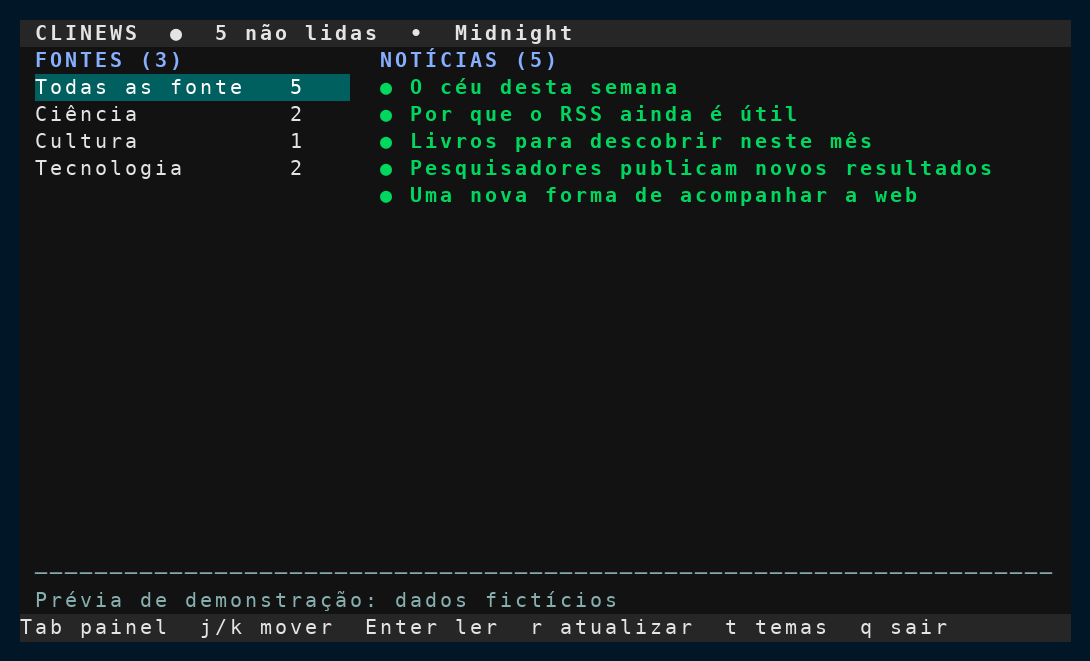
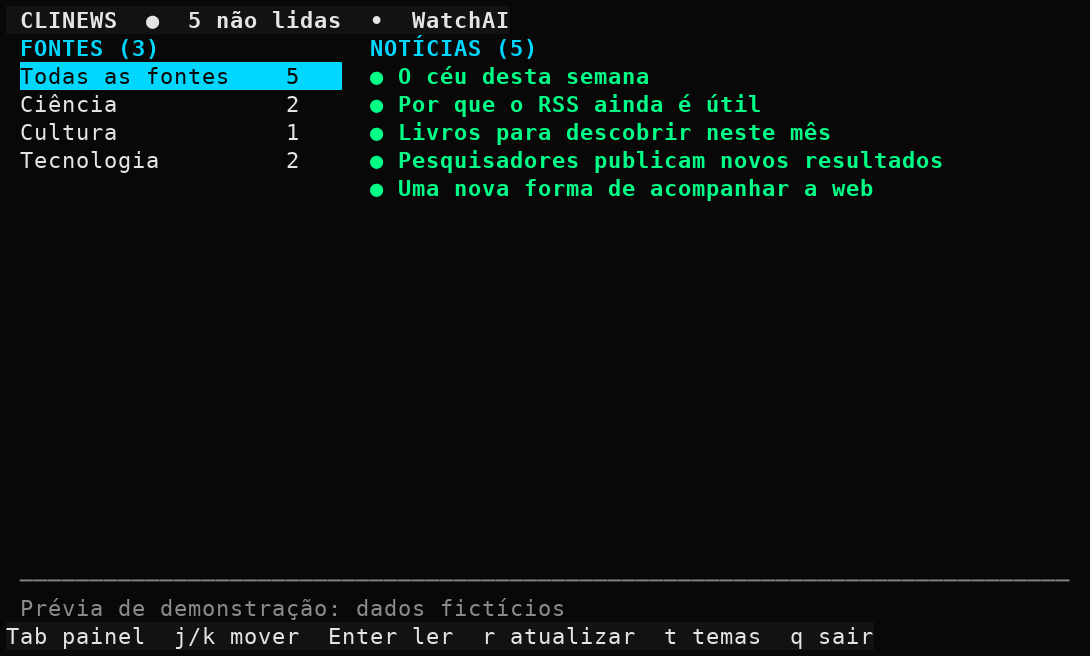
Troca os temas do clinews pelas oito paletas do WatchAI
Os seis temas proprios do clinews - NeoTokio, OldCity, FullDark, SunMode,
Midnight e Zenmode - sairam. Ficaram so as oito paletas do WatchAI, com os
mesmos nomes, na mesma ordem do seletor de la e com os mesmos valores de
cor. O padrao passou de Midnight para WatchAI, que e o padrao do WatchAI.

A correspondencia entre os dois continua a mesma da adicao anterior: as 16
cores de cada paleta do WatchAI viram os dez papeis do clinews, com cyan
no acento e na selecao, green na noticia nao lida e cyan2 no link. O Grey
e a unica excecao: o cyan2 dele (#7A7A7A) fica em 4,49:1 contra o fundo,
entao o link usa o texto secundario da mesma paleta.

XTERM_OVERRIDES perdeu os ajustes de Midnight, NeoTokio e Zenmode. Das
oito paletas que ficaram, so o Grey colide na aproximacao de 256 cores -
fundo e superficie caem no 233, e o cabecalho sumiria.

O teste de paletas virou uma tabela com as cores do WatchAI copiadas a
mao: e ela que falha quando um dos dois aplicativos mexe numa cor sem
mexer no outro.

As capturas da landing page e da Snap Store foram refeitas: o cabecalho
delas dizia "Midnight", um tema que nao existe mais. README, landing page
e a descricao do snap passaram de catorze para oito temas.

Changed region(s): [[0.0, 0.0, 1.0, 1.0]]

diff --git a/docs/index.html b/docs/index.html
@@ -42,7 +42,7 @@
       </div>
       <figure class="hero-screen">
         <a href="assets/tela-noticias.png" target="_blank" rel="noopener" aria-label="Abrir captura da lista de notícias em tamanho completo">
-          <img src="assets/tela-noticias.png" width="1096" height="431" alt="Tela real do clinews no tema Midnight, com fontes à esquerda e notícias não lidas à direita" fetchpriority="high">
+          <img src="assets/tela-noticias.png" width="1100" height="432" alt="Tela real do clinews no tema WatchAI, com fontes à esquerda e notícias não lidas à direita" fetchpriority="high">
         </a>
         <figcaption>Interface real do clinews · modo de demonstração</figcaption>
       </figure>
@@ -64,20 +64,20 @@
           </div>
           <div class="screen-grid">
             <figure class="screen-card" id="panel-noticias">
-              <a href="assets/tela-noticias.png" target="_blank" rel="noopener"><img src="assets/tela-noticias.png" width="1096" height="431" loading="lazy" alt="Lista de fontes à esquerda e matérias não lidas à direita no tema Midnight"></a>
+              <a href="assets/tela-noticias.png" target="_blank" rel="noopener"><img src="assets/tela-noticias.png" width="1100" height="432" loading="lazy" alt="Lista de fontes à esquerda e matérias não lidas à direita no tema WatchAI"></a>
               <figcaption><strong>Acompanhe as novidades</strong><span>Veja todas as matérias ou filtre por fonte. O ponto colorido marca o que ainda não foi lido.</span></figcaption>
             </figure>
             <figure class="screen-card" id="panel-fontes">
-              <a href="assets/tela-fontes.png" target="_blank" rel="noopener"><img src="assets/tela-fontes.png" width="1096" height="431" loading="lazy" alt="Tela de sugestões de fontes com opções em português e inglês"></a>
+              <a href="assets/tela-fontes.png" target="_blank" rel="noopener"><img src="assets/tela-fontes.png" width="1100" height="432" loading="lazy" alt="Tela de sugestões de fontes com opções em português e inglês"></a>
               <figcaption><strong>Escolha suas fontes</strong><span>Marque sugestões ou adicione manualmente o endereço de um site ou feed.</span></figcaption>
             </figure>
             <figure class="screen-card" id="panel-leitura">
-              <a href="assets/tela-leitura.png" target="_blank" rel="noopener"><img src="assets/tela-leitura.png" width="1096" height="431" loading="lazy" alt="Tela de leitura com título, data, resumo e área para o link original"></a>
+              <a href="assets/tela-leitura.png" target="_blank" rel="noopener"><img src="assets/tela-leitura.png" width="1100" height="432" loading="lazy" alt="Tela de leitura com título, data, resumo e área para o link original"></a>
               <figcaption><strong>Leia no terminal</strong><span>Veja o resumo do feed, encontre o link original e traduza textos em inglês quando quiser.</span></figcaption>
             </figure>
             <figure class="screen-card" id="panel-temas">
-              <a href="assets/tela-temas.png" target="_blank" rel="noopener"><img src="assets/tela-temas.png" width="1096" height="431" loading="lazy" alt="Seletor de temas do clinews mostrando as paletas disponíveis"></a>
-              <figcaption><strong>Ajuste as cores</strong><span>Escolha entre catorze temas e veja a prévia antes de salvar.</span></figcaption>
+              <a href="assets/tela-temas.png" target="_blank" rel="noopener"><img src="assets/tela-temas.png" width="1100" height="432" loading="lazy" alt="Seletor de temas do clinews mostrando as oito paletas do WatchAI"></a>
+              <figcaption><strong>Ajuste as cores</strong><span>Escolha entre os oito temas do WatchAI e veja a prévia antes de salvar.</span></figcaption>
             </figure>
           </div>
         </div>
@@ -93,11 +93,11 @@
         </div>
         <div class="features">
           <article class="feature"><div class="feature-icon" aria-hidden="true">⌕</div><h3>Suas fontes, suas regras</h3><p>Adicione qualquer feed RSS ou Atom. Comece pelas sugestões ou cole o endereço de um site.</p></article>
-          <article class="feature"><div class="feature-icon" aria-hidden="true">⌨</div><h3>Feito para o teclado</h3><p>Navegue entre fontes e notícias sem sair do terminal, com atalhos simples e catorze temas.</p></article>
+          <article class="feature"><div class="feature-icon" aria-hidden="true">⌨</div><h3>Feito para o teclado</h3><p>Navegue entre fontes e notícias sem sair do terminal, com atalhos simples e oito temas.</p></article>
           <article class="feature"><div class="feature-icon" aria-hidden="true">文</div><h3>Traduza quando quiser</h3><p>Pressione <code>t</code> ao ler uma notícia em inglês para ver o título e o resumo em português.</p></article>
           <article class="feature"><div class="feature-icon" aria-hidden="true">◷</div><h3>Seu ritmo de leitura</h3><p>Atualize quando quiser e acompanhe o que ainda não leu. Sem sincronização em segundo plano.</p></article>
           <article class="feature"><div class="feature-icon" aria-hidden="true">▣</div><h3>Notícias salvas localmente</h3><p>Os feeds e as matérias ficam no seu computador e continuam acessíveis sem conexão.</p></article>
-          <article class="feature"><div class="feature-icon" aria-hidden="true">◈</div><h3>Interface personalizável</h3><p>Escolha entre sete paletas de cores e ajuste a experiência ao seu terminal.</p></article>
+          <article class="feature"><div class="feature-icon" aria-hidden="true">◈</div><h3>Interface personalizável</h3><p>Escolha entre as oito paletas do WatchAI e ajuste a experiência ao seu terminal.</p></article>
         </div>
       </div>
     </section>

diff --git a/clinews/themes.py b/clinews/themes.py
@@ -6,40 +6,25 @@ import json
 import os
 from pathlib import Path
 
-DEFAULT_THEME = "Midnight"
+DEFAULT_THEME = "WatchAI"
 
-# As paletas do WatchAI descrevem 16 cores por tema; o clinews usa dez papéis.
-# A correspondência entre os dois é fixa, e é ela que mantém os temas iguais
-# nos dois aplicativos:
+# Os temas são as oito paletas do WatchAI (`src/watchai/theme.py`), com os
+# mesmos nomes e os mesmos valores de cor. O WatchAI descreve dezesseis cores
+# por tema; o clinews desenha dez papéis, e a correspondência entre os dois é
+# fixa — é ela que mantém os temas iguais nos dois aplicativos:
 #
-#     bg -> bg          text -> fg        bg2 -> surface     muted -> muted
-#     cyan -> accent    cyan -> selection (com bg em selected_fg, como realce)
-#     magenta -> accent2    green -> unread    cyan2 -> link
+#     bg -> bg (e selected_fg)      text  -> fg
+#     bg2 -> surface                text2 -> link, só no Grey
+#     cyan -> accent e selection    muted -> muted
+#     cyan2 -> link                 green -> unread
+#     magenta -> accent2
 #
 # `cyan` é o acento do WatchAI (seleção, títulos, teclas) e `green` marca o
-# estado "pronto", que aqui vira a notícia não lida. Toda cor foi conferida em
-# contraste de 4,5:1 contra o fundo em que aparece (test_readable_theme_contrast).
+# estado "pronto", que aqui vira a notícia não lida. A seleção pinta o fundo
+# com o acento porque o clinews não tem a borda que o WatchAI desenha no card.
+# Toda cor foi conferida em contraste de 4,5:1 contra o fundo em que aparece
+# (test_readable_theme_contrast). A ordem é a do seletor do WatchAI.
 THEMES: dict[str, dict[str, str]] = {
-    "NeoTokio": dict(bg="#020624", fg="#8BEFFD", surface="#0A123B", muted="#8AB9C4",
-                      accent="#FF5BD6", accent2="#45E7F5", selection="#D83CB5",
-                      selected_fg="#020624", unread="#FF5BD6", link="#45E7F5"),
-    "OldCity": dict(bg="#211B16", fg="#E8D7B0", surface="#3C3025", muted="#B5A181",
-                     accent="#C88B3A", accent2="#A5693F", selection="#5A4230",
-                     selected_fg="#FFF3D4", unread="#D7B56D", link="#E4B973"),
-    "FullDark": dict(bg="#000000", fg="#A9EFB5", surface="#07150B", muted="#82A88A",
-                      accent="#00FF66", accent2="#AAFF55", selection="#0C3B1D",
-                      selected_fg="#E7FFEA", unread="#00FF66", link="#70FF9B"),
-    "SunMode": dict(bg="#FAFAF7", fg="#202A31", surface="#E9EDEB", muted="#5C686D",
-                     accent="#176A72", accent2="#C48239", selection="#CFE9E9",
-                     selected_fg="#10262A", unread="#137048", link="#0B6675"),
-    "Midnight": dict(bg="#150e2e", fg="#91ebe8", surface="#251445", muted="#89A4BB",
-                     accent="#82AAFF", accent2="#C792EA", selection="#3A275D",
-                     selected_fg="#FFFFFF", unread="#22DA6E", link="#7FDBCA"),
-    "Zenmode": dict(bg="#003d31", fg="#00b3ff", surface="#004639", muted="#9EDCD6",
-                    accent="#6EE7FF", accent2="#7AF0C5", selection="#00B3FF",
-                    selected_fg="#002B23", unread="#62E6A7", link="#67D5FF"),
-
-    # -- as oito paletas do WatchAI ------------------------------------------
     "WatchAI": dict(bg="#05070D", fg="#D8E2F0", surface="#080D16", muted="#7C8799",
                     accent="#00E5FF", accent2="#FF2BD6", selection="#00E5FF",
                     selected_fg="#05070D", unread="#00FF85", link="#00AFC8"),
@@ -61,7 +46,7 @@ THEMES: dict[str, dict[str, str]] = {
     "Steampunk": dict(bg="#140F0A", fg="#EFE2CC", surface="#1F1811", muted="#9A876C",
                       accent="#7FB2A1", accent2="#C9762F", selection="#7FB2A1",
                       selected_fg="#140F0A", unread="#9FB055", link="#5A8A7C"),
-    # Sem matiz: os estados se separam por brilho. O `cyan2` do WatchAI (#7A7A7A)
+    # Sem matiz: os papéis se separam por brilho. O `cyan2` do WatchAI (#7A7A7A)
     # ficaria em 4,5:1 raspando o limite, então o link usa o texto secundário.
     "Grey": dict(bg="#0E0E0E", fg="#E8E8E8", surface="#171717", muted="#8C8C8C",
                  accent="#9C9C9C", accent2="#C2C2C2", selection="#9C9C9C",
@@ -104,14 +89,11 @@ def nearest_xterm(hex_color: str) -> int:
     return min(candidates, key=lambda item: sum((a - b) ** 2 for a, b in zip(rgb, item[1])))[0]
 
 
-# Onde a aproximação de 256 cores perde o desenho do tema: fundos coloridos que
-# viram cinza, ou dois papéis que caem na mesma cor e apagam a diferença entre
-# eles. O Grey é o caso do segundo tipo — fundo e superfície aproximam no mesmo
-# 233, e o cabeçalho sumiria no fundo.
+# Onde a aproximação de 256 cores perde o desenho do tema: dois papéis que caem
+# na mesma cor e apagam a diferença entre eles. O Grey é o único caso entre as
+# paletas do WatchAI — fundo e superfície aproximam no mesmo 233, e o cabeçalho
+# sumiria no fundo.
 XTERM_OVERRIDES: dict[str, dict[str, int]] = {
-    "Midnight": {"bg": 53, "surface": 54, "selection": 60},
-    "NeoTokio": {"bg": 17, "surface": 18},
-    "Zenmode": {"bg": 23, "fg": 81},
     "Grey": {"surface": 234},
 }
 

diff --git a/tests/test_app.py b/tests/test_app.py
@@ -101,22 +101,40 @@ class AppTest(unittest.TestCase):
                 with self.subTest(theme=name, role=f"{role}/surface"):
                     self.assertGreaterEqual(contrast(palette[role], palette["surface"]), 4.5)
 
-    def test_watchai_palettes_available(self):
-        """As oito paletas do WatchAI, com os mesmos valores do outro aplicativo."""
-        for name in ("WatchAI", "Light", "Dark", "Night Owl", "Vampire",
-                     "Cyberpunk", "Steampunk", "Grey"):
+    # As paletas do WatchAI (src/watchai/theme.py), na ordem do seletor dele e
+    # com as cores que o clinews usa: bg, bg2, cyan, cyan2, magenta, green,
+    # text, muted. Copiadas à mão de propósito: é esta tabela que falha quando
+    # um dos dois aplicativos mexe numa cor sem mexer no outro.
+    WATCHAI_PALETTES = {
+        "WatchAI": ("#05070D", "#080D16", "#00E5FF", "#00AFC8", "#FF2BD6", "#00FF85", "#D8E2F0", "#7C8799"),
+        "Light": ("#FBFCFD", "#EFF2F6", "#0A7C8A", "#0E5D67", "#A626A4", "#1A7F37", "#1F2328", "#656D76"),
+        "Dark": ("#0D1117", "#161B22", "#56B6C2", "#3E8A94", "#C678DD", "#56D364", "#E6EDF3", "#8B949E"),
+        "Night Owl": ("#011627", "#0B2942", "#7FDBCA", "#21C7A8", "#C792EA", "#ADDB67", "#D6DEEB", "#8BA1B3"),
+        "Vampire": ("#282A36", "#21222C", "#8BE9FD", "#BD93F9", "#FF79C6", "#50FA7B", "#F8F8F2", "#9AA0BF"),
+        "Cyberpunk": ("#05010A", "#0D0418", "#00F0FF", "#00B8C4", "#FF00A0", "#00FF9F", "#F2E9FF", "#9A86BC"),
+        "Steampunk": ("#140F0A", "#1F1811", "#7FB2A1", "#5A8A7C", "#C9762F", "#9FB055", "#EFE2CC", "#9A876C"),
+        "Grey": ("#0E0E0E", "#171717", "#9C9C9C", "#7A7A7A", "#C2C2C2", "#DADADA", "#E8E8E8", "#8C8C8C"),
+    }
+
+    def test_themes_are_the_watchai_palettes(self):
+        """Os temas são as oito paletas do WatchAI, nome por nome e cor por cor."""
+        self.assertEqual(list(THEMES), list(self.WATCHAI_PALETTES))
+        self.assertEqual(DEFAULT_THEME, "WatchAI")  # a paleta padrão do WatchAI
+        for name, palette in self.WATCHAI_PALETTES.items():
+            bg, bg2, cyan, cyan2, magenta, green, text, muted = palette
             with self.subTest(theme=name):
-                self.assertIn(name, THEMES)
-        self.assertEqual(THEMES["WatchAI"]["bg"], "#05070D")
-        self.assertEqual(THEMES["WatchAI"]["accent"], "#00E5FF")
-        self.assertEqual(THEMES["Cyberpunk"]["unread"], "#00FF9F")
-        self.assertEqual(THEMES["Vampire"]["accent"], "#8BE9FD")
+                self.assertEqual(THEMES[name], dict(
+                    bg=bg, fg=text, surface=bg2, muted=muted,
+                    accent=cyan, accent2=magenta, selection=cyan,
+                    selected_fg=bg, unread=green,
+                    # O cyan2 do Grey raspa o limite de contraste; lá o link usa
+                    # o texto secundário da mesma paleta.
+                    link="#BDBDBD" if name == "Grey" else cyan2,
+                ))
 
     def test_header_stays_visible_in_256_colors(self):
         """Fundo e superfície não podem cair na mesma cor aproximada."""
         for name in THEMES:
-            if name == "Zenmode":
-                continue  # colisão anterior às paletas do WatchAI
             with self.subTest(theme=name):
                 self.assertNotEqual(xterm_theme_color(name, "bg"),
                                     xterm_theme_color(name, "surface"))
@@ -232,12 +250,8 @@ class AppTest(unittest.TestCase):
     def test_xterm_color_approximation(self):
         self.assertEqual(nearest_xterm("#000000"), 16)
         self.assertEqual(nearest_xterm("#FFFFFF"), 231)
-        self.assertEqual(xterm_theme_color("Midnight", "bg"), 53)
-        self.assertEqual(xterm_theme_color("Midnight", "surface"), 54)
-        self.assertEqual(xterm_theme_color("NeoTokio", "bg"), 17)
-        self.assertEqual(xterm_theme_color("NeoTokio", "surface"), 18)
-        self.assertEqual(xterm_theme_color("Zenmode", "bg"), 23)
-        self.assertEqual(xterm_theme_color("Zenmode", "fg"), 81)
+        self.assertEqual(xterm_theme_color("WatchAI", "accent"), 45)
+        self.assertEqual(xterm_theme_color("Cyberpunk", "accent"), 51)
         self.assertEqual(xterm_theme_color("Grey", "surface"), 234)
 
     def test_atom_feed(self):

diff --git a/README.md b/README.md
@@ -10,7 +10,7 @@ As versões para a galeria da Snap Store ficam em [assets/store-screenshots](ass
 O ícone do aplicativo fica em [assets/clinews-snap-icon.png](assets/clinews-snap-icon.png). A interface do terminal abre direto nas fontes e notícias para aproveitar melhor o espaço de leitura.
 
 ```text
- CLINEWS  ●  5 não lidas  •  Midnight
+ CLINEWS  ●  5 não lidas  •  WatchAI
  FONTES (3)                NOTÍCIAS (5)
  Todas as fontes       5    ● Uma nova forma de acompanhar a web
  Tecnologia            2    ● Por que o RSS ainda é útil
@@ -61,18 +61,12 @@ As sugestões incluem fontes em português e inglês de notícias, tecnologia, c
 
 Pressione `t`, escolha com `j`/`k` ou as setas e pressione `Enter`. A prévia muda de cor enquanto você navega. `Esc` cancela. A escolha fica em `~/.config/clinews/config.json` (ou `$XDG_CONFIG_HOME/clinews/config.json`) e também vale para o modo de demonstração.
 
-São catorze temas: seis desenhados para o clinews e as oito paletas do
-[WatchAI](https://github.com/LeandroDukievicz/WatchAI), com os mesmos valores de
-cor nos dois aplicativos.
+São oito temas: as paletas do [WatchAI](https://github.com/LeandroDukievicz/WatchAI),
+com os mesmos nomes e os mesmos valores de cor nos dois aplicativos. O padrão é
+o WatchAI, como lá.
 
 | Tema | Cores |
 | --- | --- |
-| NeoTokio | Fundo azul-escuro `#020624`, com ciano e magenta em estilo cyberpunk |
-| OldCity | Cobre, bronze e sépia, inspirado em steampunk |
-| FullDark | Preto com verdes vivos |
-| SunMode | Fundo branco com texto escuro |
-| Midnight | Fundo roxo-escuro `#150e2e`, texto verde-água `#91ebe8` e destaques azuis e lilases |
-| Zenmode | Fundo verde-escuro `#003d31`, texto azul-ciano `#00b3ff` e destaques claros |
 | WatchAI | Quase preto `#05070D` com ciano elétrico `#00E5FF` e magenta |
 | Light | Fundo branco `#FBFCFD` com texto escuro e acentos em teal |
 | Dark | Cinza-azulado `#0D1117` com ciano suave, no estilo do GitHub escuro |
